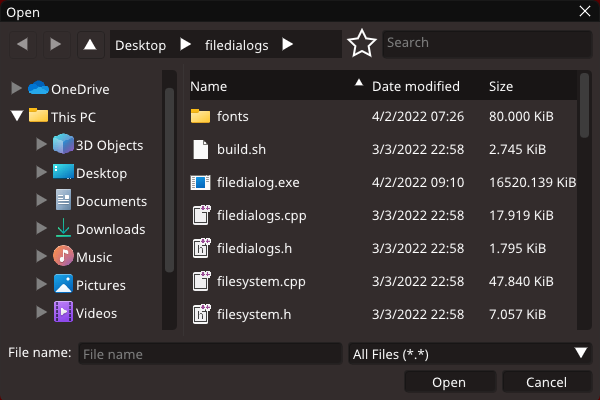
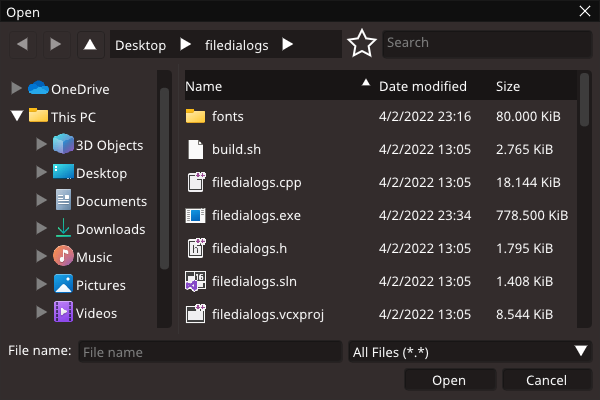
Add files via upload

diff --git a/filedialogs.cpp b/filedialogs.cpp
@@ -2,7 +2,7 @@
 
  MIT License
 
- Copyright © 2021 Samuel Venable
+ Copyright © 2021-2022 Samuel Venable
 
  Permission is hereby granted, free of charge, to any person obtaining a copy
  of this software and associated documentation files (the "Software"), to deal
@@ -212,10 +212,10 @@ namespace {
     style.PopupBorderSize                   = 1;
     style.FrameBorderSize                   = 1;
     style.TabBorderSize                     = 1;
-    style.WindowRounding                    = 7;
+    style.WindowRounding                    = 0;
     style.ChildRounding                     = 4;
     style.FrameRounding                     = 3;
-    style.PopupRounding                     = 4;
+    style.PopupRounding                     = 0;
     style.ScrollbarRounding                 = 9;
     style.GrabRounding                      = 3;
     style.LogSliderDeadzone                 = 4;
